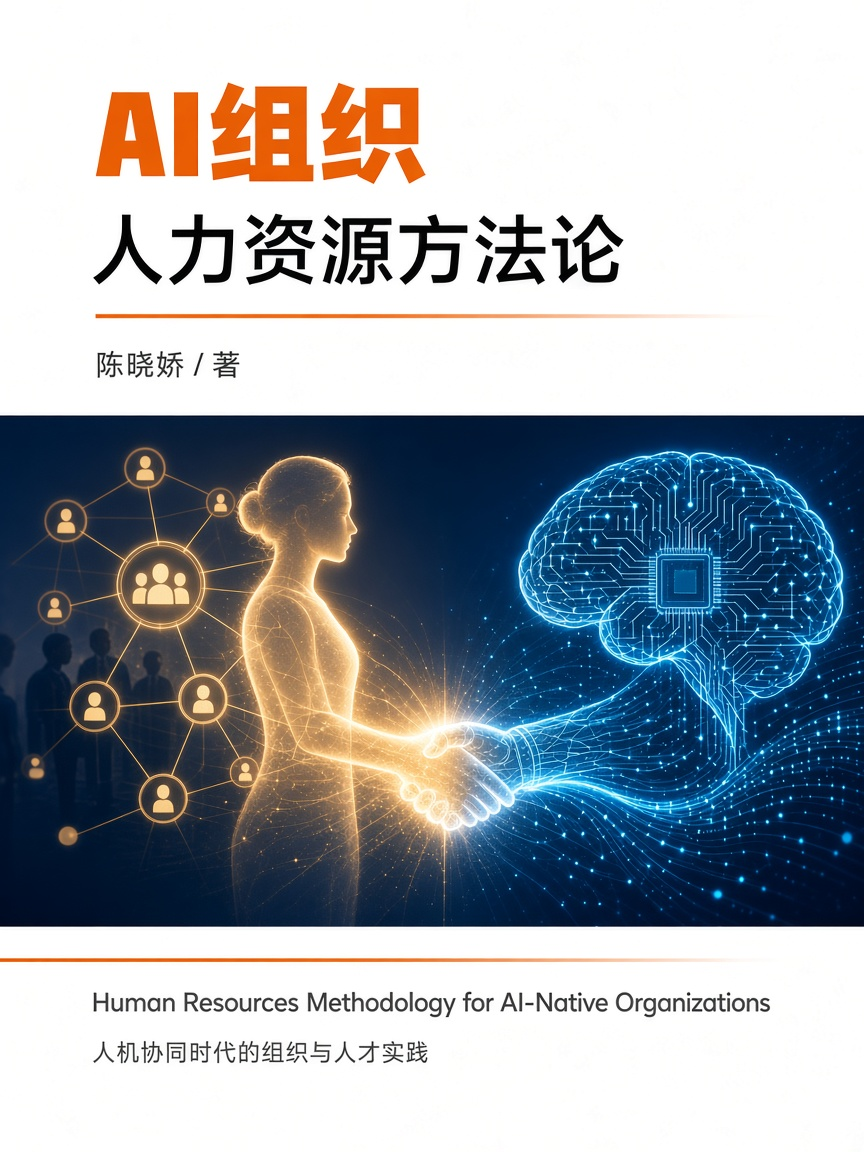
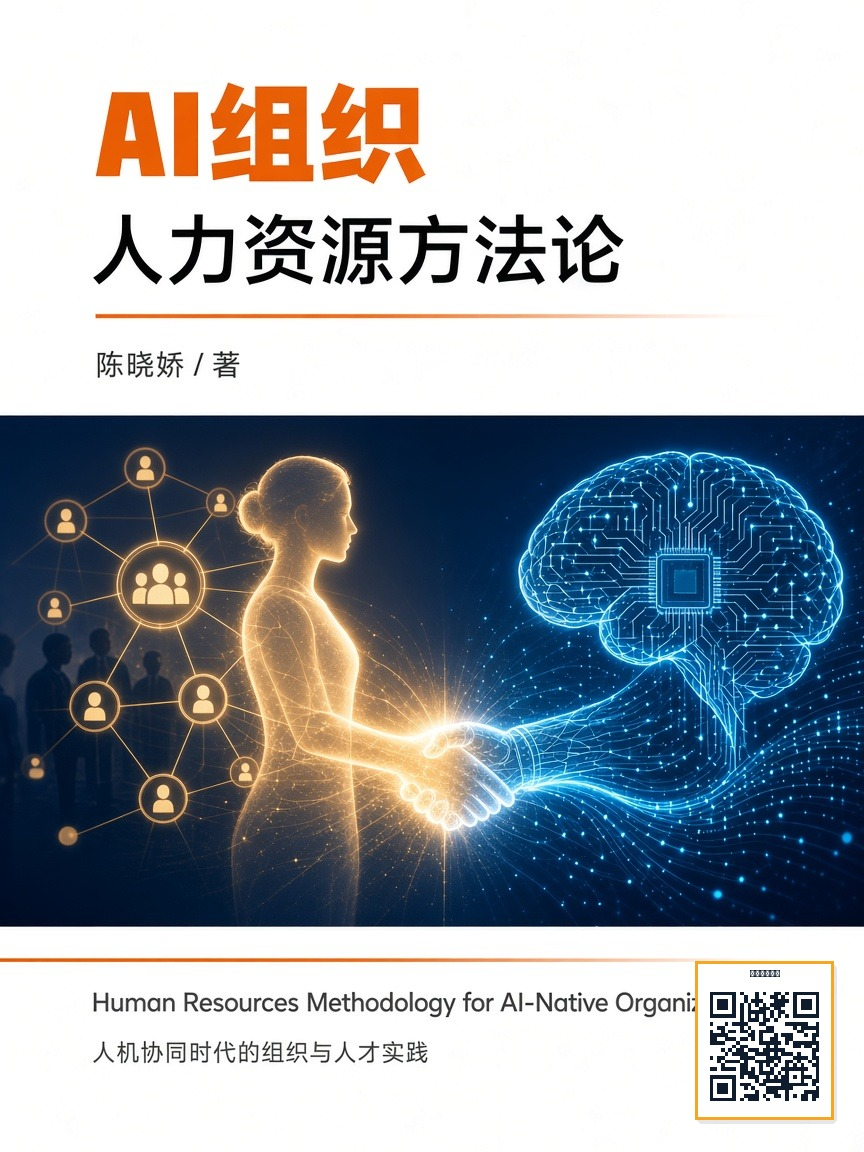
Add site QR code to the book cover.
Generate the HRinAINative GitHub Pages QR, place it on the cover, and document the online reading link.

Changed region(s): [[0.7812, 0.8125, 0.9688, 1.0]]

diff --git a/cover.html b/cover.html
@@ -26,7 +26,7 @@
       overflow: hidden;
       box-shadow: 0 18px 50px rgba(15,28,46,0.18);
       line-height: 0;
-      background: #0b1f3a;
+      background: #fff;
     }
     .cover img { width: 100%; height: auto; display: block; }
     .actions {
@@ -49,17 +49,29 @@
       font-size: 0.92rem;
       line-height: 1.5;
     }
+    .site-link {
+      display: inline-block;
+      margin-top: 0.35rem;
+      color: #1554b5;
+      text-decoration: none;
+      font-size: 0.88rem;
+    }
+    .site-link:hover { text-decoration: underline; }
   </style>
 </head>
 <body>
   <div class="stage">
     <div class="cover">
-      <img src="images/cover.jpg" alt="AI组织人力资源方法论 封面" />
+      <img src="images/cover.jpg" alt="AI组织人力资源方法论 封面（含在线阅读二维码）" />
     </div>
-    <div class="meta">AI组织人力资源方法论<br />陈晓娇 著</div>
+    <div class="meta">
+      AI组织人力资源方法论<br />陈晓娇 著<br />
+      <a class="site-link" href="https://cltf.github.io/HRinAINative/" target="_blank" rel="noopener noreferrer">cltf.github.io/HRinAINative</a>
+    </div>
     <div class="actions">
       <a href="index.html">进入目录</a>
       <a href="ch01.html">开始第 1 章</a>
+      <a href="https://cltf.github.io/HRinAINative/" target="_blank" rel="noopener noreferrer">在线阅读</a>
     </div>
   </div>
 </body>

diff --git a/_convert_docx.py b/_convert_docx.py
@@ -1039,75 +1039,11 @@ def main() -> None:
     )
     print("wrote index.html")
 
-    cover_html = f"""<!DOCTYPE html>
-<html lang="zh-CN">
-<head>
-  <meta charset="UTF-8" />
-  <meta name="viewport" content="width=device-width, initial-scale=1" />
-  <title>封面 · {esc(BOOK_TITLE)}</title>
-  <link rel="preconnect" href="https://fonts.googleapis.com" />
-  <link rel="preconnect" href="https://fonts.gstatic.com" crossorigin />
-  <link href="https://fonts.googleapis.com/css2?family=Noto+Sans+SC:wght@400;500;700&display=swap" rel="stylesheet" />
-  <style>
-    * {{ box-sizing: border-box; }}
-    body {{
-      margin: 0;
-      min-height: 100vh;
-      display: grid;
-      place-items: center;
-      padding: 1.5rem;
-      background: #eceae6;
-      font-family: "Noto Sans SC", system-ui, sans-serif;
-      color: #0f1c2e;
-    }}
-    .stage {{ width: min(420px, 100%); }}
-    .cover {{
-      width: 100%;
-      border-radius: 4px;
-      overflow: hidden;
-      box-shadow: 0 18px 50px rgba(15,28,46,0.18);
-      line-height: 0;
-      background: #0b1f3a;
-    }}
-    .cover img {{ width: 100%; height: auto; display: block; }}
-    .actions {{
-      display: flex;
-      gap: 0.75rem;
-      justify-content: center;
-      margin-top: 1rem;
-      flex-wrap: wrap;
-    }}
-    .actions a {{
-      color: #6b7a8d;
-      font-size: 0.9rem;
-      text-decoration: none;
-    }}
-    .actions a:hover {{ color: #0f1c2e; }}
-    .meta {{
-      text-align: center;
-      margin-top: 0.85rem;
-      color: #6b7a8d;
-      font-size: 0.92rem;
-      line-height: 1.5;
-    }}
-  </style>
-</head>
-<body>
-  <div class="stage">
-    <div class="cover">
-      <img src="images/cover.jpg" alt="{esc(BOOK_TITLE)} 封面" />
-    </div>
-    <div class="meta">{esc(BOOK_TITLE)}<br />{esc(BOOK_AUTHOR)} 著</div>
-    <div class="actions">
-      <a href="index.html">进入目录</a>
-      <a href="ch01.html">开始第 1 章</a>
-    </div>
-  </div>
-</body>
-</html>
-"""
-    (OUT / "cover.html").write_text(cover_html, encoding="utf-8")
-    print("wrote cover.html")
+    # 封面页与二维码由人工维护，避免覆盖 images/cover.* / cover.html
+    if not (OUT / "cover.html").exists():
+        print("skip cover.html (missing; keep manual cover assets)")
+    else:
+        print("keep existing cover.html / cover images")
 
 
 if __name__ == "__main__":

diff --git a/README.md b/README.md
@@ -28,16 +28,19 @@
 
 ---
 
-## 在线阅读（本地）
+## 在线阅读
+
+站点：[https://cltf.github.io/HRinAINative/](https://cltf.github.io/HRinAINative/)  
+封面右下角二维码可扫码直达。
 
 | 入口 | 说明 |
 |------|------|
-| [`cover.html`](cover.html) | 封面页 |
+| [`cover.html`](cover.html) | 封面页（含在线阅读二维码） |
 | [`index.html`](index.html) | 总目录 |
 | [`ch01.html`](ch01.html) ~ [`ch10.html`](ch10.html) | 各章正文 |
 | [`appendix.html`](appendix.html) | 附录 |
 
-用浏览器直接打开上述 HTML 即可阅读。建议从 [`index.html`](index.html) 进入；左侧目录支持点击章节展开小节，其他章节自动收起。
+本地也可用浏览器直接打开上述 HTML。建议从 [`index.html`](index.html) 进入；左侧目录支持点击章节展开小节，其他章节自动收起。
 
 ---
 
@@ -68,7 +71,8 @@
 | 文件 / 目录 | 用途 |
 |-------------|------|
 | `AI 组织人力资源方法论.docx` | Word 源稿 |
-| `images/cover.jpg` / `cover.png` | 封面图 |
+| `images/cover.jpg` / `cover.png` | 封面图（右下角含在线阅读二维码） |
+| `images/qr-site.png` | 站点二维码原图 |
 | `cover.html` / `index.html` | 封面页与总目录 |
 | `ch01.html` ~ `ch10.html` | 各章 HTML |
 | `appendix.html` | 附录 |
